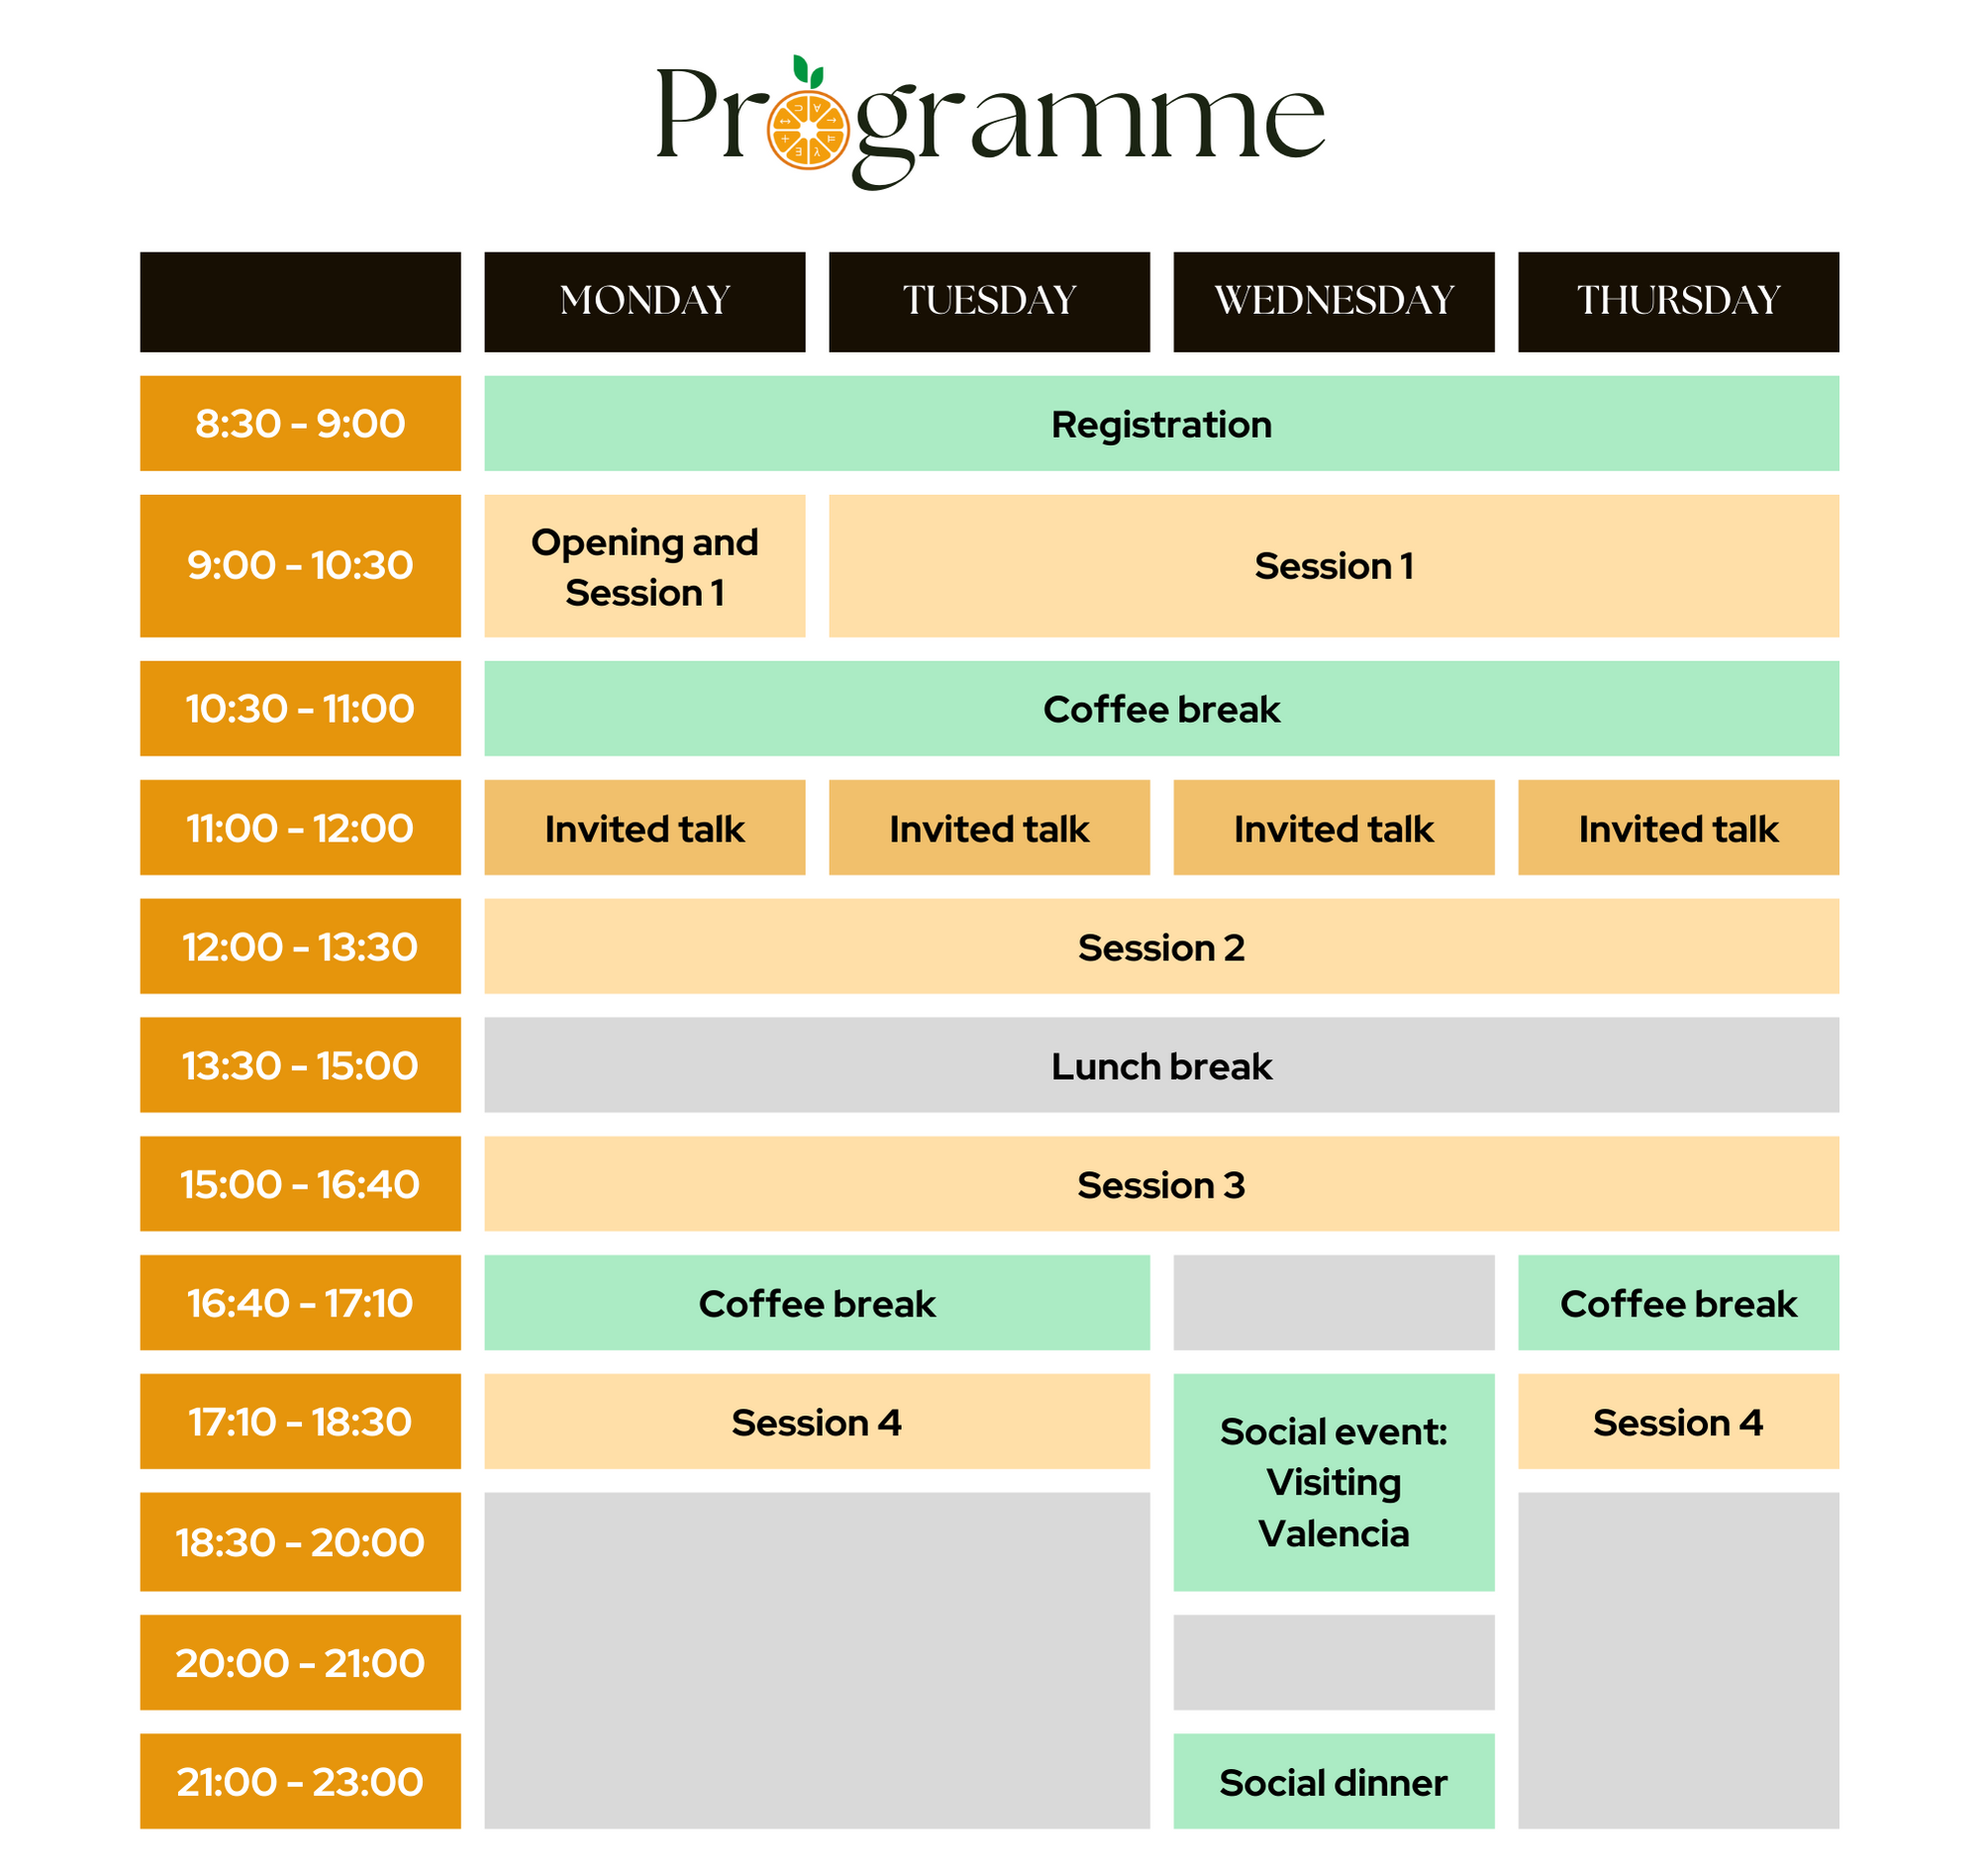
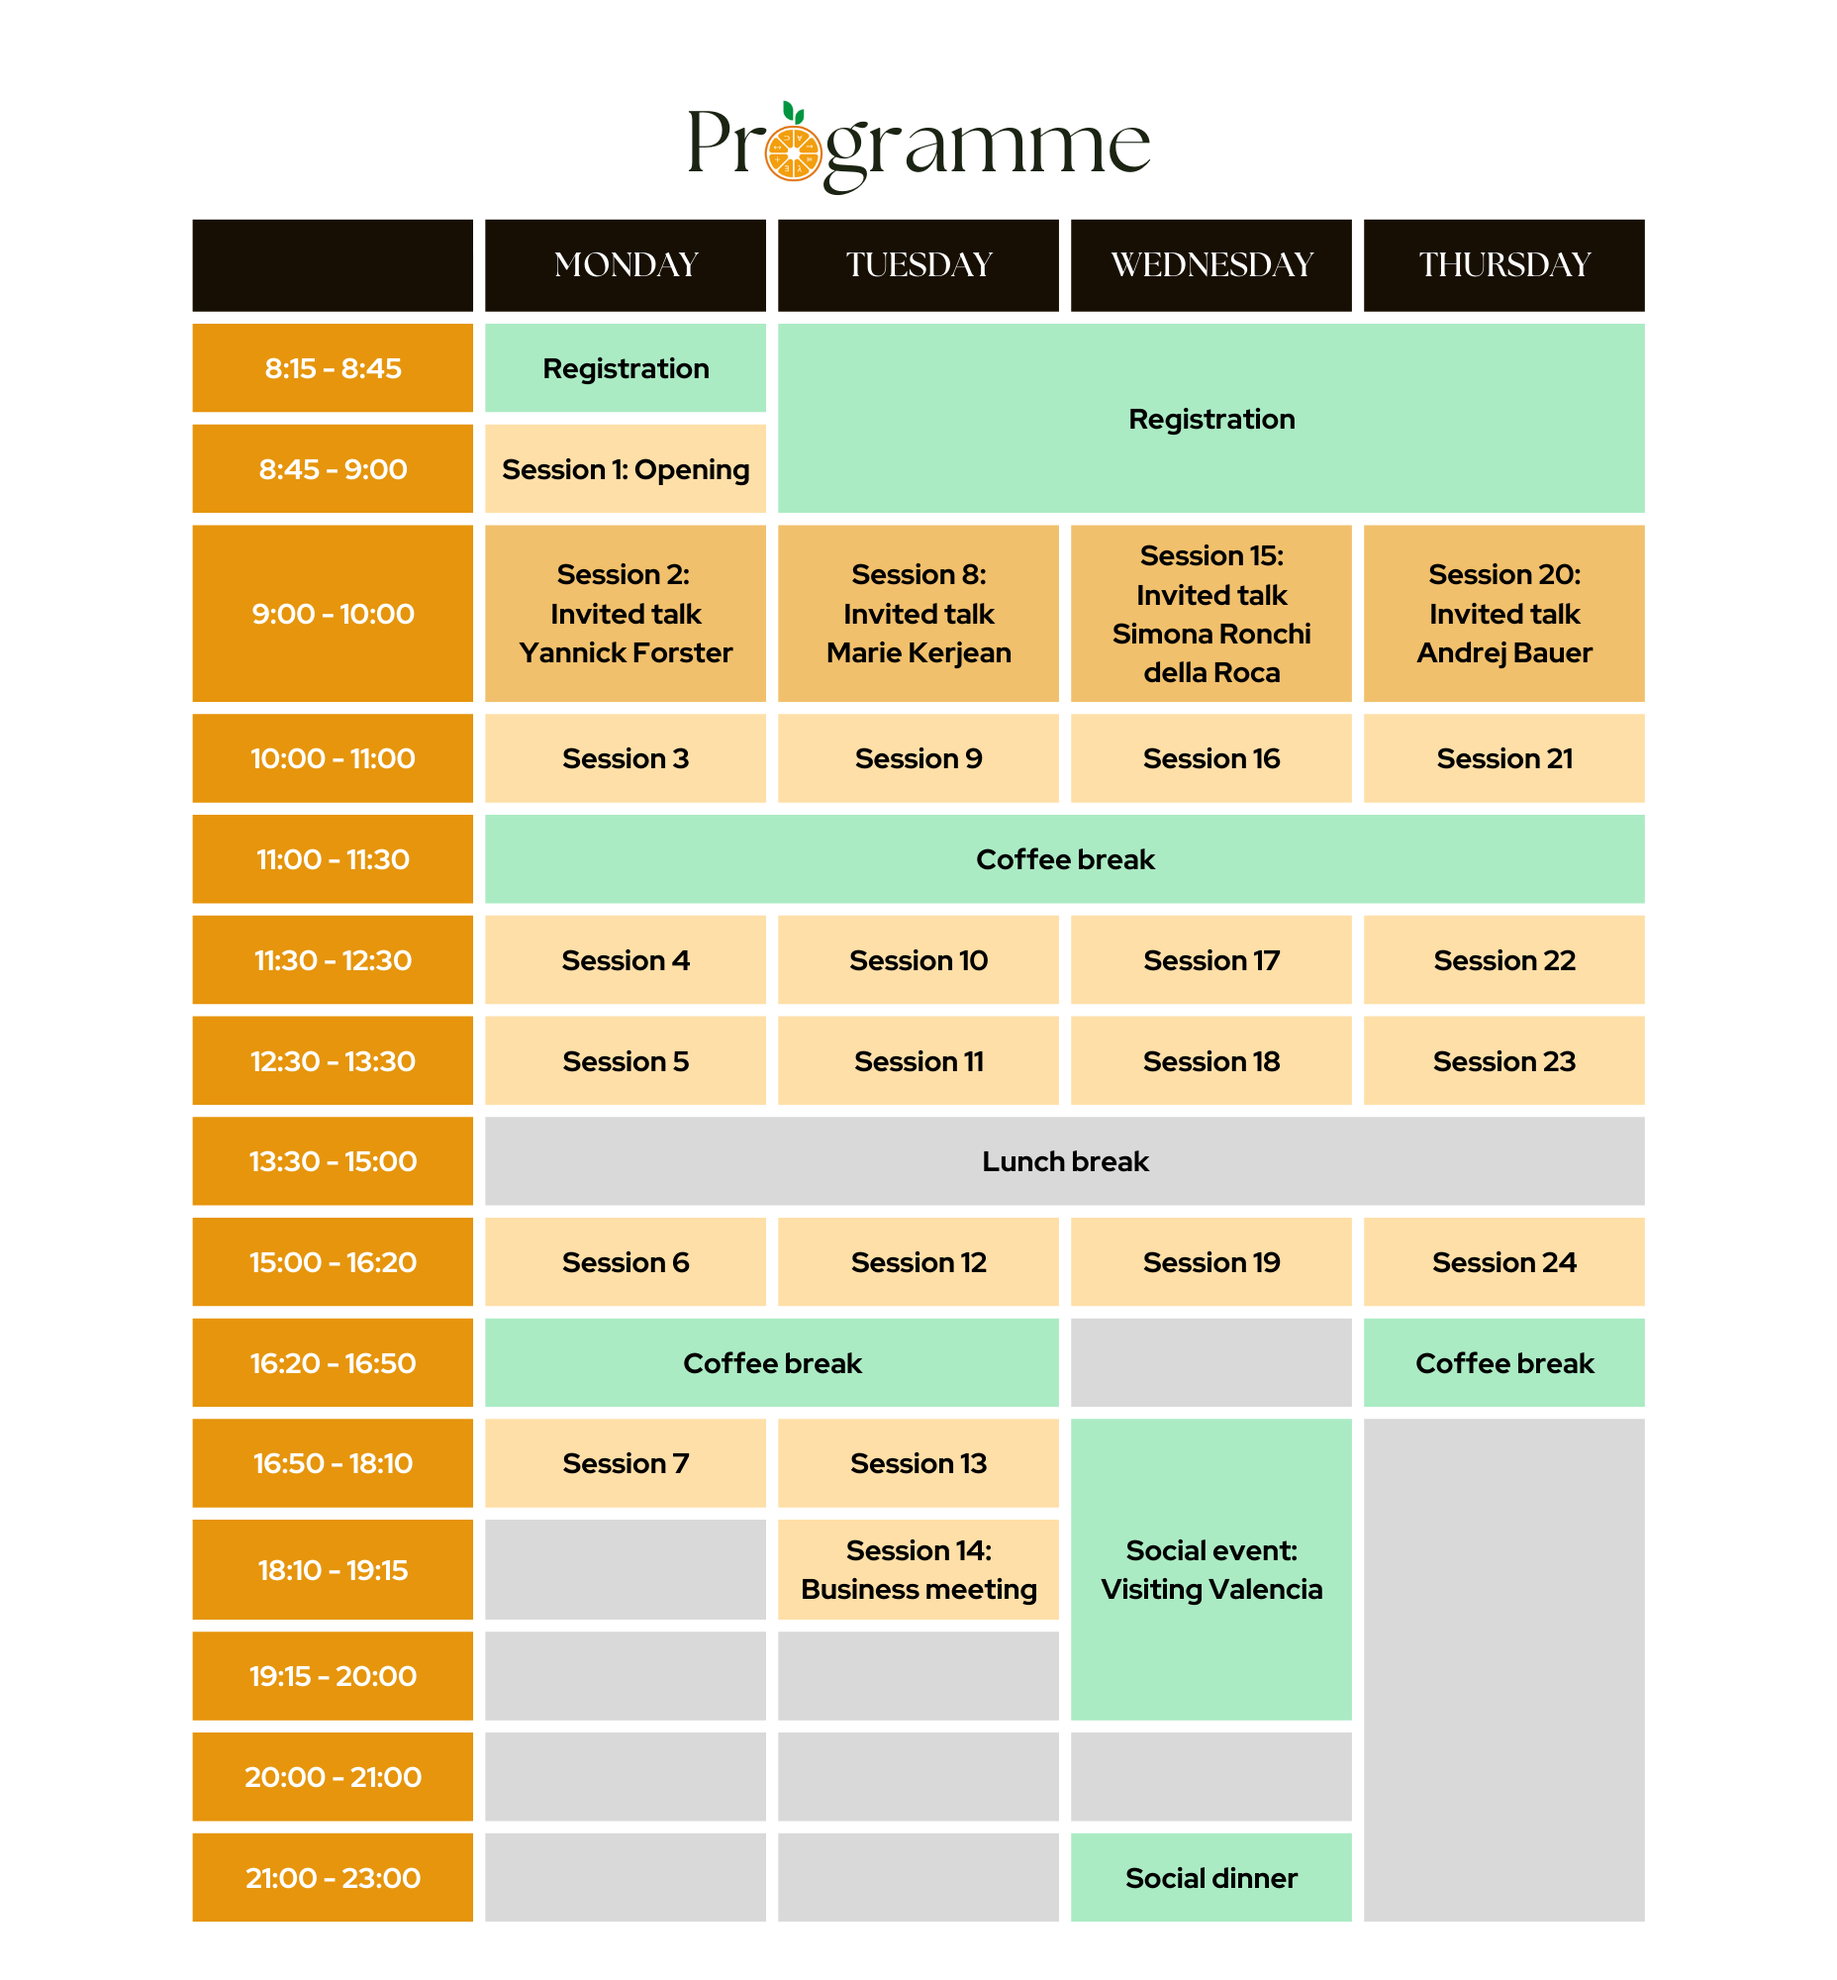
Programme scheme

diff --git a/Programme.html b/Programme.html
@@ -77,57 +77,57 @@
 	  <p> The tentative program is available <a href="https://easychair.org/smart-program/TYPES2023/" target=_blank> here</a>.
 	  </p>
       <h3>Program scheme</h3>
-      <!--		 <div><img src="imagen/programme_types.png" width="100%" height="auto"/></div>-->
-      <center>
-      											<div class="table-responsive center">
-												<table style="width:80%" class="table table-bordered">
-                                                    <colgroup>
-    <col span="1" style="background-color:#797D7F;color:white;">
-  </colgroup>
-													<tbody>
-													<tr style= "font-family: sans-serif">
-														<td style="vertical-align:middle;width:60px;color:#626567" colspan="1"></td>
-														<td style="text-align:  center;vertical-align:middle;width:120px; background-color:#797D7F;color:white" colspan="1"><strong>Monday</strong> </td>
-														<td style="text-align:  center;vertical-align:middle;width:120px; background-color:#797D7F;color:white" colspan="1"><strong>Tuesday</strong> </td>
-                                                        <td style="text-align:  center;vertical-align:middle;width:120px; background-color:#797D7F;color:white" colspan="1"><strong>Wednesday</strong> </td>
-                                                        <td style="text-align:  center;vertical-align:middle;width:120px; background-color:#797D7F;color:white" colspan="1"><strong>Thursday</strong> </td>
-													</tr>
-													<tr>
-														<td style="background-color:#797D7F;color:white;height: 80px;vertical-align: middle" >09:00-13:30</td>
-														<td style="background-color:#FAD7A0;text-align:  center;color:#626567;vertical-align: middle">Morning sessions</td>
-                                                        <td style="background-color:#FAD7A0;text-align:  center;color:#626567;vertical-align: middle">Morning sessions</td>
-                                                        <td style="background-color:#FAD7A0;text-align:  center;color:#626567;vertical-align: middle">Morning sessions</td>
-                                                        <td style="background-color:#FAD7A0;text-align:  center;color:#626567;vertical-align: middle">Morning sessions</td>
-													</tr>
-													<tr>
-                                                        <td style="background-color:#797D7F;color:white;vertical-align:middle">13:30-15:00</td>
-														<td style="text-align:  center;color:#626567;background-color: #DAF7A6"> Lunch</td>
-                                                        <td style="text-align:  center;color:#626567;background-color: #DAF7A6"> Lunch</td>
-                                                        <td style="text-align:  center;color:#626567;background-color: #DAF7A6"> Lunch</td>
-                                                        <td style="text-align:  center;color:#626567;background-color: #DAF7A6"> Lunch</td>
-													</tr>
-													<tr>
-														<td style="background-color:#797D7F;color:white;vertical-align:middle">15:00-16:30</td>
-														<td style="background-color:#FAD7A0;text-align:  center;color:#626567;vertical-align: middle" rowspan="2"> Afternoon sessions</td>
-                                                        <td style="background-color:#FAD7A0;text-align:  center;color:#626567;vertical-align: middle" rowspan="2"> Afternoon sessions</td>
-                                                        <td style="background-color:#FAD7A0;text-align:  center;color:#626567"> Afternoon sessions</td>
-                                                        <td style="background-color:#FAD7A0;text-align:  center;color:#626567;vertical-align: middle" rowspan="2"> Afternoon sessions</td>
-													</tr>
-													<tr>
-														<td style="background-color:#797D7F;color:white;vertical-align:middle">16:30-18:30</td>
+      <div><img src="imagen/programme_types.png" width="100%" height="auto"/></div>
+      <!-- <center>
+      		 <div class="table-responsive center">
+					 <table style="width:80%" class="table table-bordered">
+           <colgroup>
+           <col span="1" style="background-color:#797D7F;color:white;">
+           </colgroup>
+					 <tbody>
+					 <tr style= "font-family: sans-serif">
+					 <td style="vertical-align:middle;width:60px;color:#626567" colspan="1"></td>
+					 <td style="text-align:  center;vertical-align:middle;width:120px; background-color:#797D7F;color:white" colspan="1"><strong>Monday</strong> </td>
+					 <td style="text-align:  center;vertical-align:middle;width:120px; background-color:#797D7F;color:white" colspan="1"><strong>Tuesday</strong> </td>
+           <td style="text-align:  center;vertical-align:middle;width:120px; background-color:#797D7F;color:white" colspan="1"><strong>Wednesday</strong> </td>
+           <td style="text-align:  center;vertical-align:middle;width:120px; background-color:#797D7F;color:white" colspan="1"><strong>Thursday</strong> </td>
+					 </tr>
+					 <tr>
+					 <td style="background-color:#797D7F;color:white;height: 80px;vertical-align: middle" >09:00-13:30</td>
+					 <td style="background-color:#FAD7A0;text-align:  center;color:#626567;vertical-align: middle">Morning sessions</td>
+           <td style="background-color:#FAD7A0;text-align:  center;color:#626567;vertical-align: middle">Morning sessions</td>
+           <td style="background-color:#FAD7A0;text-align:  center;color:#626567;vertical-align: middle">Morning sessions</td>
+           <td style="background-color:#FAD7A0;text-align:  center;color:#626567;vertical-align: middle">Morning sessions</td>
+					 </tr>
+					 <tr>
+           <td style="background-color:#797D7F;color:white;vertical-align:middle">13:30-15:00</td>
+					 <td style="text-align:  center;color:#626567;background-color: #DAF7A6"> Lunch</td>
+           <td style="text-align:  center;color:#626567;background-color: #DAF7A6"> Lunch</td>
+           <td style="text-align:  center;color:#626567;background-color: #DAF7A6"> Lunch</td>
+           <td style="text-align:  center;color:#626567;background-color: #DAF7A6"> Lunch</td>
+					 </tr>
+					 <tr>
+					 <td style="background-color:#797D7F;color:white;vertical-align:middle">15:00-16:30</td>
+					 <td style="background-color:#FAD7A0;text-align:  center;color:#626567;vertical-align: middle" rowspan="2"> Afternoon sessions</td>
+           <td style="background-color:#FAD7A0;text-align:  center;color:#626567;vertical-align: middle" rowspan="2"> Afternoon sessions</td>
+           <td style="background-color:#FAD7A0;text-align:  center;color:#626567"> Afternoon sessions</td>
+           <td style="background-color:#FAD7A0;text-align:  center;color:#626567;vertical-align: middle" rowspan="2"> Afternoon sessions</td>
+					 </tr>
+					 <tr>
+					 <td style="background-color:#797D7F;color:white;vertical-align:middle">16:30-18:30</td>
 
-                                                        <td style="text-align:  center;color:#626567;vertical-align: middle;background-color: #b2f7a6" rowspan="2"> Social events</td>
-													</tr>
-													<tr>
-														<td style="background-color:#797D7F;color:white;vertical-align:middle">18:30-</td>
-														<td style="text-align:  center;color:#626567;border-bottom-color:white" colspan="2"> </td>
-                                                        <!-- <td style="text-align:  center;color:#626567"> Social events</td>-->
-                                                        <td style="text-align:  center;color:#626567;border-bottom-color:white;border-right-color: white"> </td>
+           <td style="text-align:  center;color:#626567;vertical-align: middle;background-color: #b2f7a6" rowspan="2"> Social events</td>
+					 </tr>
+					 <tr>
+					 <td style="background-color:#797D7F;color:white;vertical-align:middle">18:30-</td>
+					 <td style="text-align:  center;color:#626567;border-bottom-color:white" colspan="2"> </td>
+           <td style="text-align:  center;color:#626567"> Social events</td>
+      <td style="text-align:  center;color:#626567;border-bottom-color:white;border-right-color: white"> </td>
 													</tr>
 													</tbody>
 												</table>
-											</div>
-              </center>
+	</div>
+              </center> -->
      <!--
      <h2>Programme</h2>
    	<div class="title_name">Monday 12th June</div>
